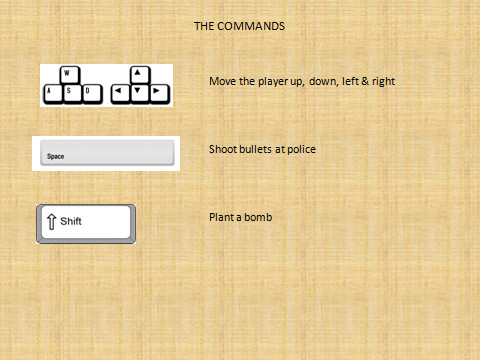
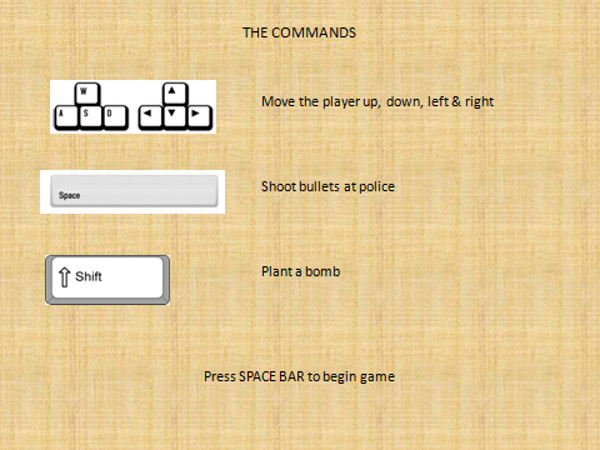
change splash routine such that right arrow progresses through three backgrounds (players, rules, commands). Doesn't seem to work in reverse though ;(

diff --git a/Scenario/DESTROYING THE GREAT CATHEDRALS OF EUROPE/doc/constant-values.html b/Scenario/DESTROYING THE GREAT CATHEDRALS OF EUROPE/doc/constant-values.html
@@ -2,7 +2,7 @@
 <!--NewPage-->
 <HTML>
 <HEAD>
-<!-- Generated by javadoc (build 1.7.0_65) on Mon Apr 27 08:32:40 EDT 2015 -->
+<!-- Generated by javadoc (build 1.8.0_25) on Mon Apr 27 13:21:09 EDT 2015 -->
 <META http-equiv="Content-Type" content="text/html; charset=UTF-8">
 <TITLE>
 Constant Field Values

diff --git a/Scenario/DESTROYING THE GREAT CATHEDRALS OF EUROPE/doc/package-frame.html b/Scenario/DESTROYING THE GREAT CATHEDRALS OF EUROPE/doc/package-frame.html
@@ -2,7 +2,7 @@
 <!--NewPage-->
 <HTML>
 <HEAD>
-<!-- Generated by javadoc (build 1.7.0_65) on Mon Apr 27 08:32:40 EDT 2015 -->
+<!-- Generated by javadoc (build 1.8.0_25) on Mon Apr 27 13:21:09 EDT 2015 -->
 <META http-equiv="Content-Type" content="text/html; charset=UTF-8">
 <TITLE>
 &lt;Unnamed&gt;

diff --git a/Scenario/DESTROYING THE GREAT CATHEDRALS OF EUROPE/doc/allclasses-frame.html b/Scenario/DESTROYING THE GREAT CATHEDRALS OF EUROPE/doc/allclasses-frame.html
@@ -2,7 +2,7 @@
 <!--NewPage-->
 <HTML>
 <HEAD>
-<!-- Generated by javadoc (build 1.7.0_65) on Mon Apr 27 08:32:40 EDT 2015 -->
+<!-- Generated by javadoc (build 1.8.0_25) on Mon Apr 27 13:21:09 EDT 2015 -->
 <META http-equiv="Content-Type" content="text/html; charset=UTF-8">
 <TITLE>
 All Classes

diff --git a/Scenario/DESTROYING THE GREAT CATHEDRALS OF EUROPE/doc/allclasses-noframe.html b/Scenario/DESTROYING THE GREAT CATHEDRALS OF EUROPE/doc/allclasses-noframe.html
@@ -2,7 +2,7 @@
 <!--NewPage-->
 <HTML>
 <HEAD>
-<!-- Generated by javadoc (build 1.7.0_65) on Mon Apr 27 08:32:40 EDT 2015 -->
+<!-- Generated by javadoc (build 1.8.0_25) on Mon Apr 27 13:21:09 EDT 2015 -->
 <META http-equiv="Content-Type" content="text/html; charset=UTF-8">
 <TITLE>
 All Classes

diff --git a/Scenario/DESTROYING THE GREAT CATHEDRALS OF EUROPE/doc/Splash.html b/Scenario/DESTROYING THE GREAT CATHEDRALS OF EUROPE/doc/Splash.html
@@ -2,7 +2,7 @@
 <!--NewPage-->
 <HTML>
 <HEAD>
-<!-- Generated by javadoc (build 1.7.0_65) on Mon Apr 27 08:32:40 EDT 2015 -->
+<!-- Generated by javadoc (build 1.8.0_25) on Mon Apr 27 13:21:09 EDT 2015 -->
 <META http-equiv="Content-Type" content="text/html; charset=UTF-8">
 <TITLE>
 Splash

diff --git a/Scenario/DESTROYING THE GREAT CATHEDRALS OF EUROPE/doc/package-summary.html b/Scenario/DESTROYING THE GREAT CATHEDRALS OF EUROPE/doc/package-summary.html
@@ -2,7 +2,7 @@
 <!--NewPage-->
 <HTML>
 <HEAD>
-<!-- Generated by javadoc (build 1.7.0_65) on Mon Apr 27 08:32:40 EDT 2015 -->
+<!-- Generated by javadoc (build 1.8.0_25) on Mon Apr 27 13:21:09 EDT 2015 -->
 <META http-equiv="Content-Type" content="text/html; charset=UTF-8">
 <TITLE>
 

diff --git a/Scenario/DESTROYING THE GREAT CATHEDRALS OF EUROPE/doc/index.html b/Scenario/DESTROYING THE GREAT CATHEDRALS OF EUROPE/doc/index.html
@@ -2,7 +2,7 @@
 <!--NewPage-->
 <HTML>
 <HEAD>
-<!-- Generated by javadoc on Mon Apr 27 08:32:40 EDT 2015-->
+<!-- Generated by javadoc on Mon Apr 27 13:21:09 EDT 2015-->
 <META http-equiv="Content-Type" content="text/html; charset=UTF-8">
 <TITLE>
 Generated Documentation (Untitled)

diff --git a/Scenario/DESTROYING THE GREAT CATHEDRALS OF EUROPE/Splash.java b/Scenario/DESTROYING THE GREAT CATHEDRALS OF EUROPE/Splash.java
@@ -8,7 +8,8 @@ import java.awt.Color;
  */
 public class Splash extends World
 {
-
+    String currentBackground = "churchRuins1.jpg";
+    public int count = 0;
     /**
      * Constructor for objects of class Splash.
      * 
@@ -16,14 +17,14 @@ public class Splash extends World
     public Splash()
     {    
         // Create a new world with 750 by 500 cells with a cell size of 1x1 pixels.
-        super(600, 400, 1); 
+        super(600, 450, 1); 
 
         Color myCol1 = new Color (255,255,255,0);
 
         String titleLine1 = "DESTROYING THE GREAT CATHEDRALS OF EUROPE";
         String titleLine2 = "Z.Taylor, D.Black, R.Southern, B.Wallace";
         String titleLine3 = "CS2301/01 Spring 2015 Final Project";
-        String titleLine4 = "click Left MOUSE for instructions";
+        String titleLine4 = "press RIGHT ARROW for next screen";
         String titleLine5 = "press SPACE to play";
 
         GreenfootImage background = getBackground();
@@ -42,47 +43,59 @@ public class Splash extends World
         background.drawString((titleLine3), 90, 60); 
 
         Color myCol2 = new Color (0,0,255,40);
-        background.setColor(java.awt.Color.BLACK);
-        background.fillRect(200, 100, 200, 50);
-        java.awt.Font text3 = new java.awt.Font("Arial", java.awt.Font.BOLD, 12);
+        background.setColor(myCol1);
+        background.fillRect(190, 100, 220, 50);
+        java.awt.Font text3 = new java.awt.Font("Arial", java.awt.Font.BOLD, 14);
         background.setFont(text3);
         background.setColor(java.awt.Color.WHITE);
-        background.drawString((titleLine4), 210, 115); 
+        background.drawString((titleLine4), 200, 115); 
         background.drawString((titleLine5), 235, 140); 
 
     }
 
-    //     public void GreenfootImage (background = getBackground();
-
     public void act() 
     {       
-        String currentBackground = "churchRuins1.jpg";
 
-        if (Greenfoot.mouseClicked(this)) {
-            setBackground(new GreenfootImage("players1.jpg"));
-            currentBackground = "Players1.jpg";
-        }
-        if ((Greenfoot.mouseClicked(this)) && currentBackground == "players1.jpg")
-        {
-            setBackground(new GreenfootImage("rules1.jpg"));
-            currentBackground = "rules1.jpg";
-        }
-        if ((Greenfoot.mouseClicked(this)) && currentBackground == "rules1.jpg")
+        if ((Greenfoot.isKeyDown("right")) && currentBackground == "rules1.jpg" && count > 30)
         {
             setBackground(new GreenfootImage("commands1.jpg"));
             currentBackground = "commands1.jpg";
+            count = 0;
         }
+
+        else if ((Greenfoot.isKeyDown("right")) && currentBackground == "players1.jpg" && count > 30)
+        {
+            setBackground(new GreenfootImage("rules1.jpg"));
+            currentBackground = "rules1.jpg";
+            count = 0;
+        }
+
+        else if ((Greenfoot.isKeyDown("right")) && currentBackground == "churchRuins1.jpg" && count > 30) 
+        {
+            setBackground(new GreenfootImage("players1.jpg"));
+            currentBackground = "players1.jpg";
+            count = 0;
+        }
+        
+//         else if ((Greenfoot.isKeyDown("left")) && currentBackground == "commands1.jpg" && count > 30)
+//         {
+//             setBackground(new GreenfootImage("rules1.jpg"));
+//             currentBackground = "rules1.jpg";
+//             count = 0;
+//         }
+//         else if ((Greenfoot.isKeyDown("left")) && currentBackground == "rules.jpg" && count > 30)
+//         {
+//             setBackground(new GreenfootImage("players1.jpg"));
+//             currentBackground = "players1.jpg";
+//             count = 0;
+//         }
+
         if(Greenfoot.isKeyDown("space")){
             Greenfoot.playSound("select.wav");
             Greenfoot.setWorld(new France());
-
         }
-
-        //         if(Greenfoot.isKeyDown("enter")){
-        //             Greenfoot.playSound("select.wav");
-        //             Greenfoot.setWorld(new Splash2());
-        //         }
-
+        count = count + 1;
+       
     }  
 
 }

diff --git a/Scenario/DESTROYING THE GREAT CATHEDRALS OF EUROPE/Country.java b/Scenario/DESTROYING THE GREAT CATHEDRALS OF EUROPE/Country.java
@@ -68,7 +68,7 @@ public class Country extends World
                     img = "tower";
                 }
 
-                GreenfootImage cathedral = new GreenfootImage("St_Peters_Italy.png");
+                GreenfootImage cathedral = new GreenfootImage("dome.png");
                 int x = Greenfoot.getRandomNumber((450) +1); 
                 int y = Greenfoot.getRandomNumber(500 +1); 
                 while(x - cathedral.getWidth() < 0){
